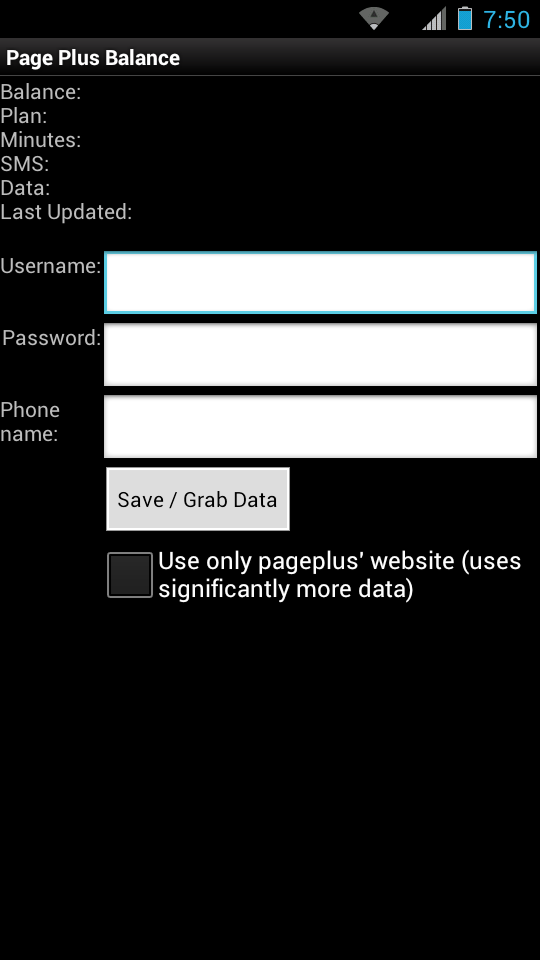
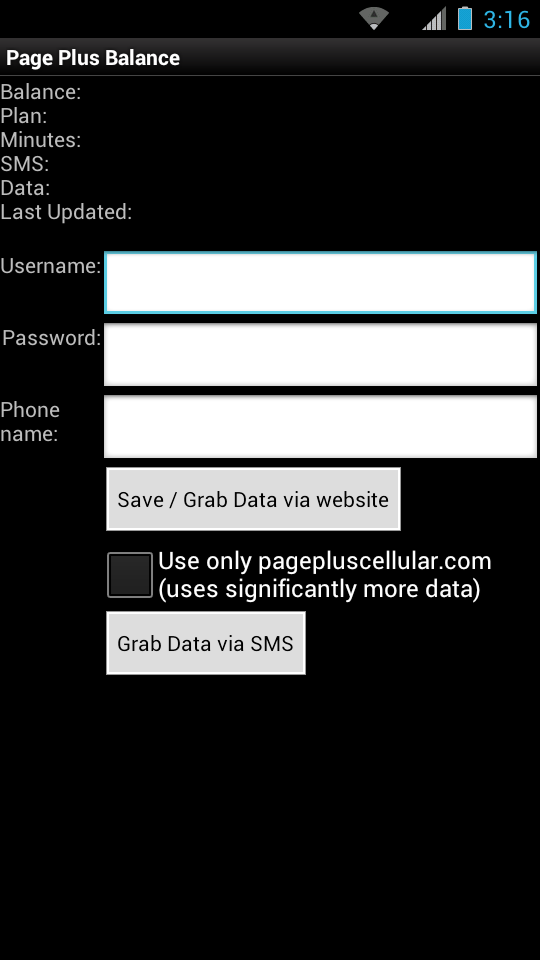
Parse expiry date from website as well, added new screenshots

Changed region(s): [[0.1778, 0.4688, 0.9778, 0.7188], [0.8889, 0.0, 0.9778, 0.0312]]

diff --git a/plugins/src/main/java/org/moparisthebest/pageplus/dto/Balance.java b/plugins/src/main/java/org/moparisthebest/pageplus/dto/Balance.java
@@ -3,8 +3,11 @@ package org.moparisthebest.pageplus.dto;
 import java.util.Date;
 
 public class Balance {
+	public static final String regexStrip = "^[^:]*: ";
+
 	private static final String[] names = new String[]{"Balance", "Plan", "Minutes", "SMS", "Data"};
-	private static String compactFormatDelim = "\n";
+	private static final String compactFormatDelim = "\n";
+	private static final String format = "%s (Expiring %s)";
 
 	public final String[] info = new String[names.length];
 	public String error = null;
@@ -56,6 +59,20 @@ public class Balance {
 	public Balance copyFrom(Balance lastSuccessful) {
 		System.arraycopy(lastSuccessful.info, 0, this.info, 0, this.info.length);
 		this.successDate = lastSuccessful.successDate;
+		return this;
+	}
+
+	public Balance setBalance(String balance, String date) {
+		this.info[0] = String.format(format,
+				balance == null ? "" : balance.replaceFirst(regexStrip, ""),
+				date == null ? "" : date.replaceFirst(regexStrip, ""));
+		return this;
+	}
+
+	public Balance setPlan(String plan, String date) {
+		this.info[1] = String.format(format,
+				plan == null ? "" : plan.replaceFirst(regexStrip, ""),
+				date == null ? "" : date.replaceFirst(regexStrip, ""));
 		return this;
 	}
 

diff --git a/plugins/src/main/java/org/moparisthebest/pageplus/plugins/PagePlusHTTP.java b/plugins/src/main/java/org/moparisthebest/pageplus/plugins/PagePlusHTTP.java
@@ -104,14 +104,17 @@ public class PagePlusHTTP extends PPInfo {
 			}
 
 			//System.out.println("doc: " + doc.html());
-			int index = -1;
 			try {
-				ret.info[++index] = doc.select("span[id=ContentPlaceHolderDefault_mainContentArea_Item2_My Account Summary_5_Registred1_lblBalance]").first().text();
+				ret.setBalance(
+						doc.select("span[id=ContentPlaceHolderDefault_mainContentArea_Item2_My Account Summary_5_Registred1_lblBalance]").first().text(),
+						doc.select("span[id=ContentPlaceHolderDefault_mainContentArea_Item2_My Account Summary_5_Registred1_lblExpiryDate]").first().text()
+				);
 			} catch (Throwable e) {
 				//e.printStackTrace();
 			}
 			try {
 				final Element balance = doc.select("div[id=ContentPlaceHolderDefault_mainContentArea_Item2_My Account Summary_5_Registred1_divBundleDetails]").first();
+				int index = 0;
 				ret.info[++index] = balance.select("tr.tableHeading").first().text();
 				for (Element row : balance.select("tr.odd").first().select("td"))
 					ret.info[++index] = row.text();

diff --git a/android/src/main/java/org/moparisthebest/pageplus/SMSReceiver.java b/android/src/main/java/org/moparisthebest/pageplus/SMSReceiver.java
@@ -7,6 +7,8 @@ import android.os.Bundle;
 import android.telephony.SmsMessage;
 import org.moparisthebest.pageplus.dto.Balance;
 
+import static org.moparisthebest.pageplus.dto.Balance.regexStrip;
+
 public class SMSReceiver extends BroadcastReceiver {
 
 	@Override
@@ -29,15 +31,10 @@ public class SMSReceiver extends BroadcastReceiver {
 				// split string by newlines
 				final String[] msgLines = message.split("\n");
 				final Balance balance = new Balance();
-				final String regexStrip = "^[^:]*: ";
 				// get balance
-				balance.info[0] = String.format("%s (expires %s)",
-						msgLines[0].replaceFirst(regexStrip, ""),
-						msgLines[1].replaceFirst(regexStrip, ""));
+				balance.setBalance(msgLines[0], msgLines[1]);
 				// get plan
-				balance.info[1] = String.format("%s (expires %s)",
-						msgLines[2],
-						msgLines[3].replaceFirst(regexStrip, ""));
+				balance.setPlan(msgLines[2], msgLines[3]);
 				// get minutes
 				balance.info[2] = msgLines[4].replaceFirst(regexStrip, "");
 				// get text

diff --git a/README.md b/README.md
@@ -27,7 +27,8 @@ Android application icon © cluck's deSiGN studio [CC-BY-SA-3.0 (http://creative
 Changelog
 ----------------------
 0.5.2:  
-     1. New icon custom made for this app by cluck's deSiGN studio and released under CC-BY-SA-3.0, thanks!
+     1. New icon custom made for this app by cluck's deSiGN studio and released under CC-BY-SA-3.0, thanks!  
+     2. Parse balance expiry date from website as well.
 
 0.5.1:  
      1. Page Plus requested I remove the app from the market because I am infringing on their IP, so this update changes the icon.  New icon is © Nevit Dilmen [CC-BY-SA-3.0 or GFDL], via Wikimedia Commons
@@ -88,4 +89,6 @@ Contributors
 
 TODO:
 ----------------------
-1. You suggest it, via a github issue or email!
+1. Page plus sends dates in 3 different formats, '2013-06-21', 'June 21, 2013', and '6/21/2013',
+perhaps parse those and display them in a single format?
+2. You suggest it, via a github issue or email!
